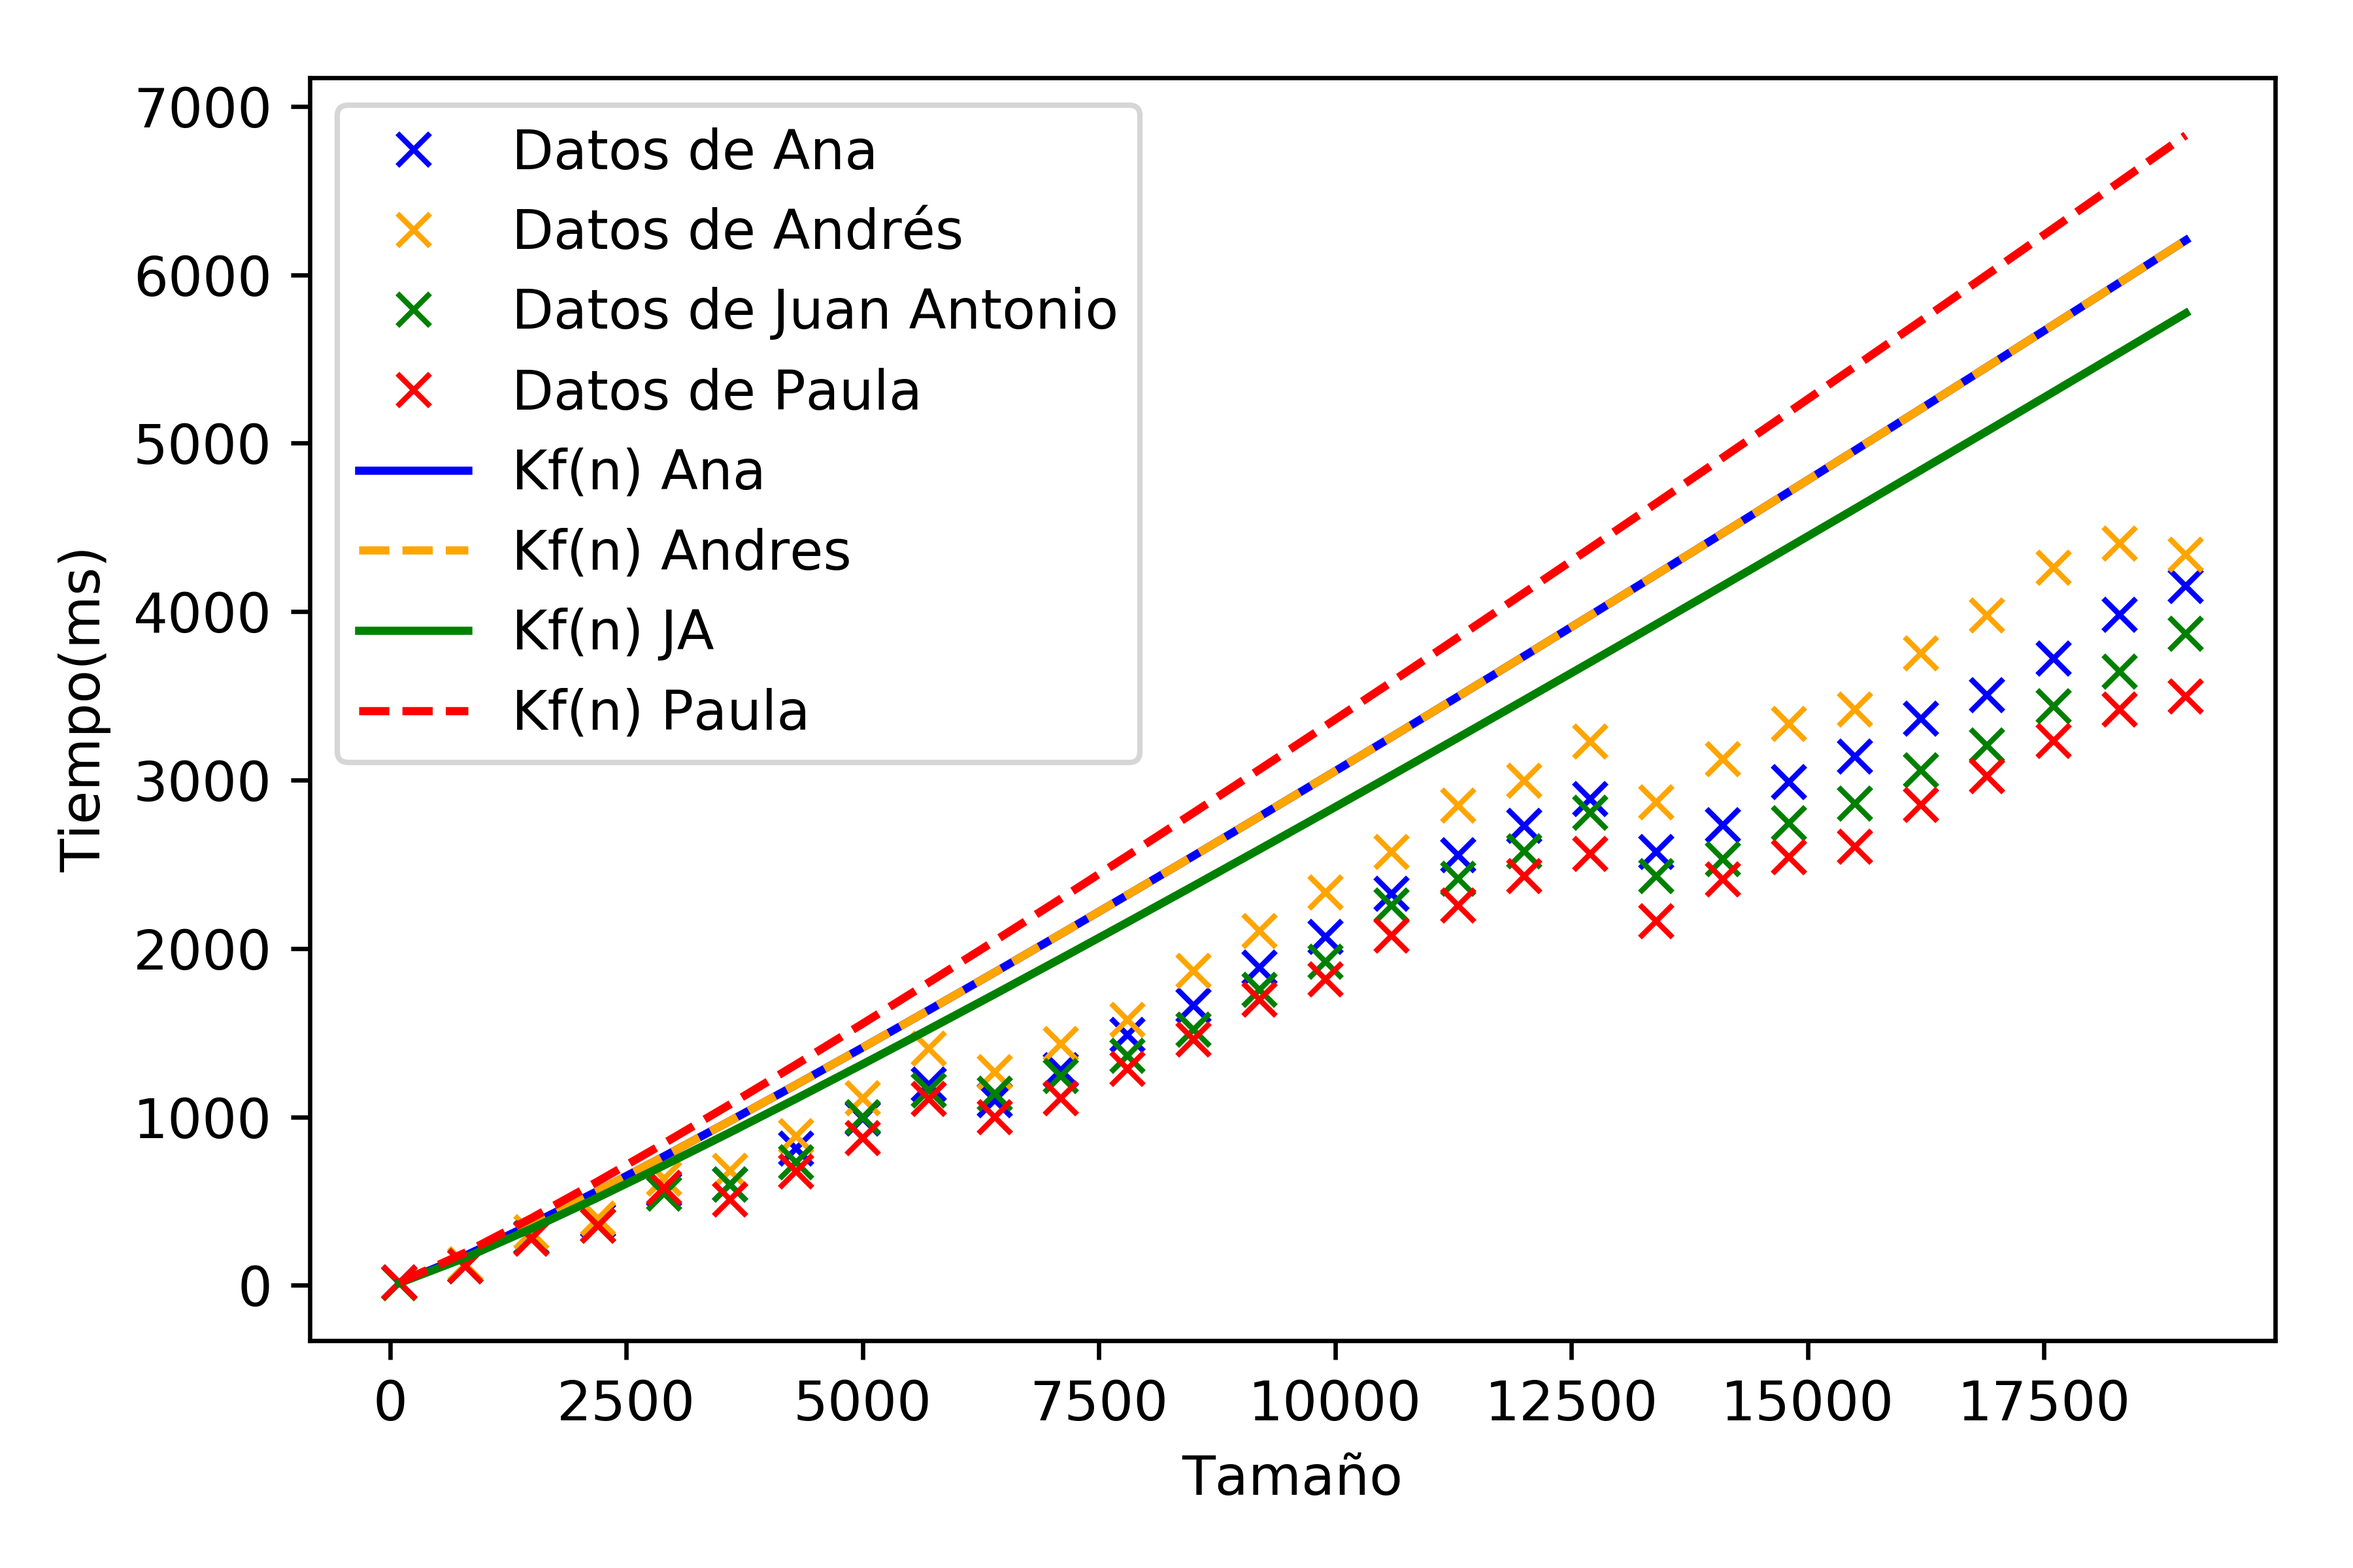
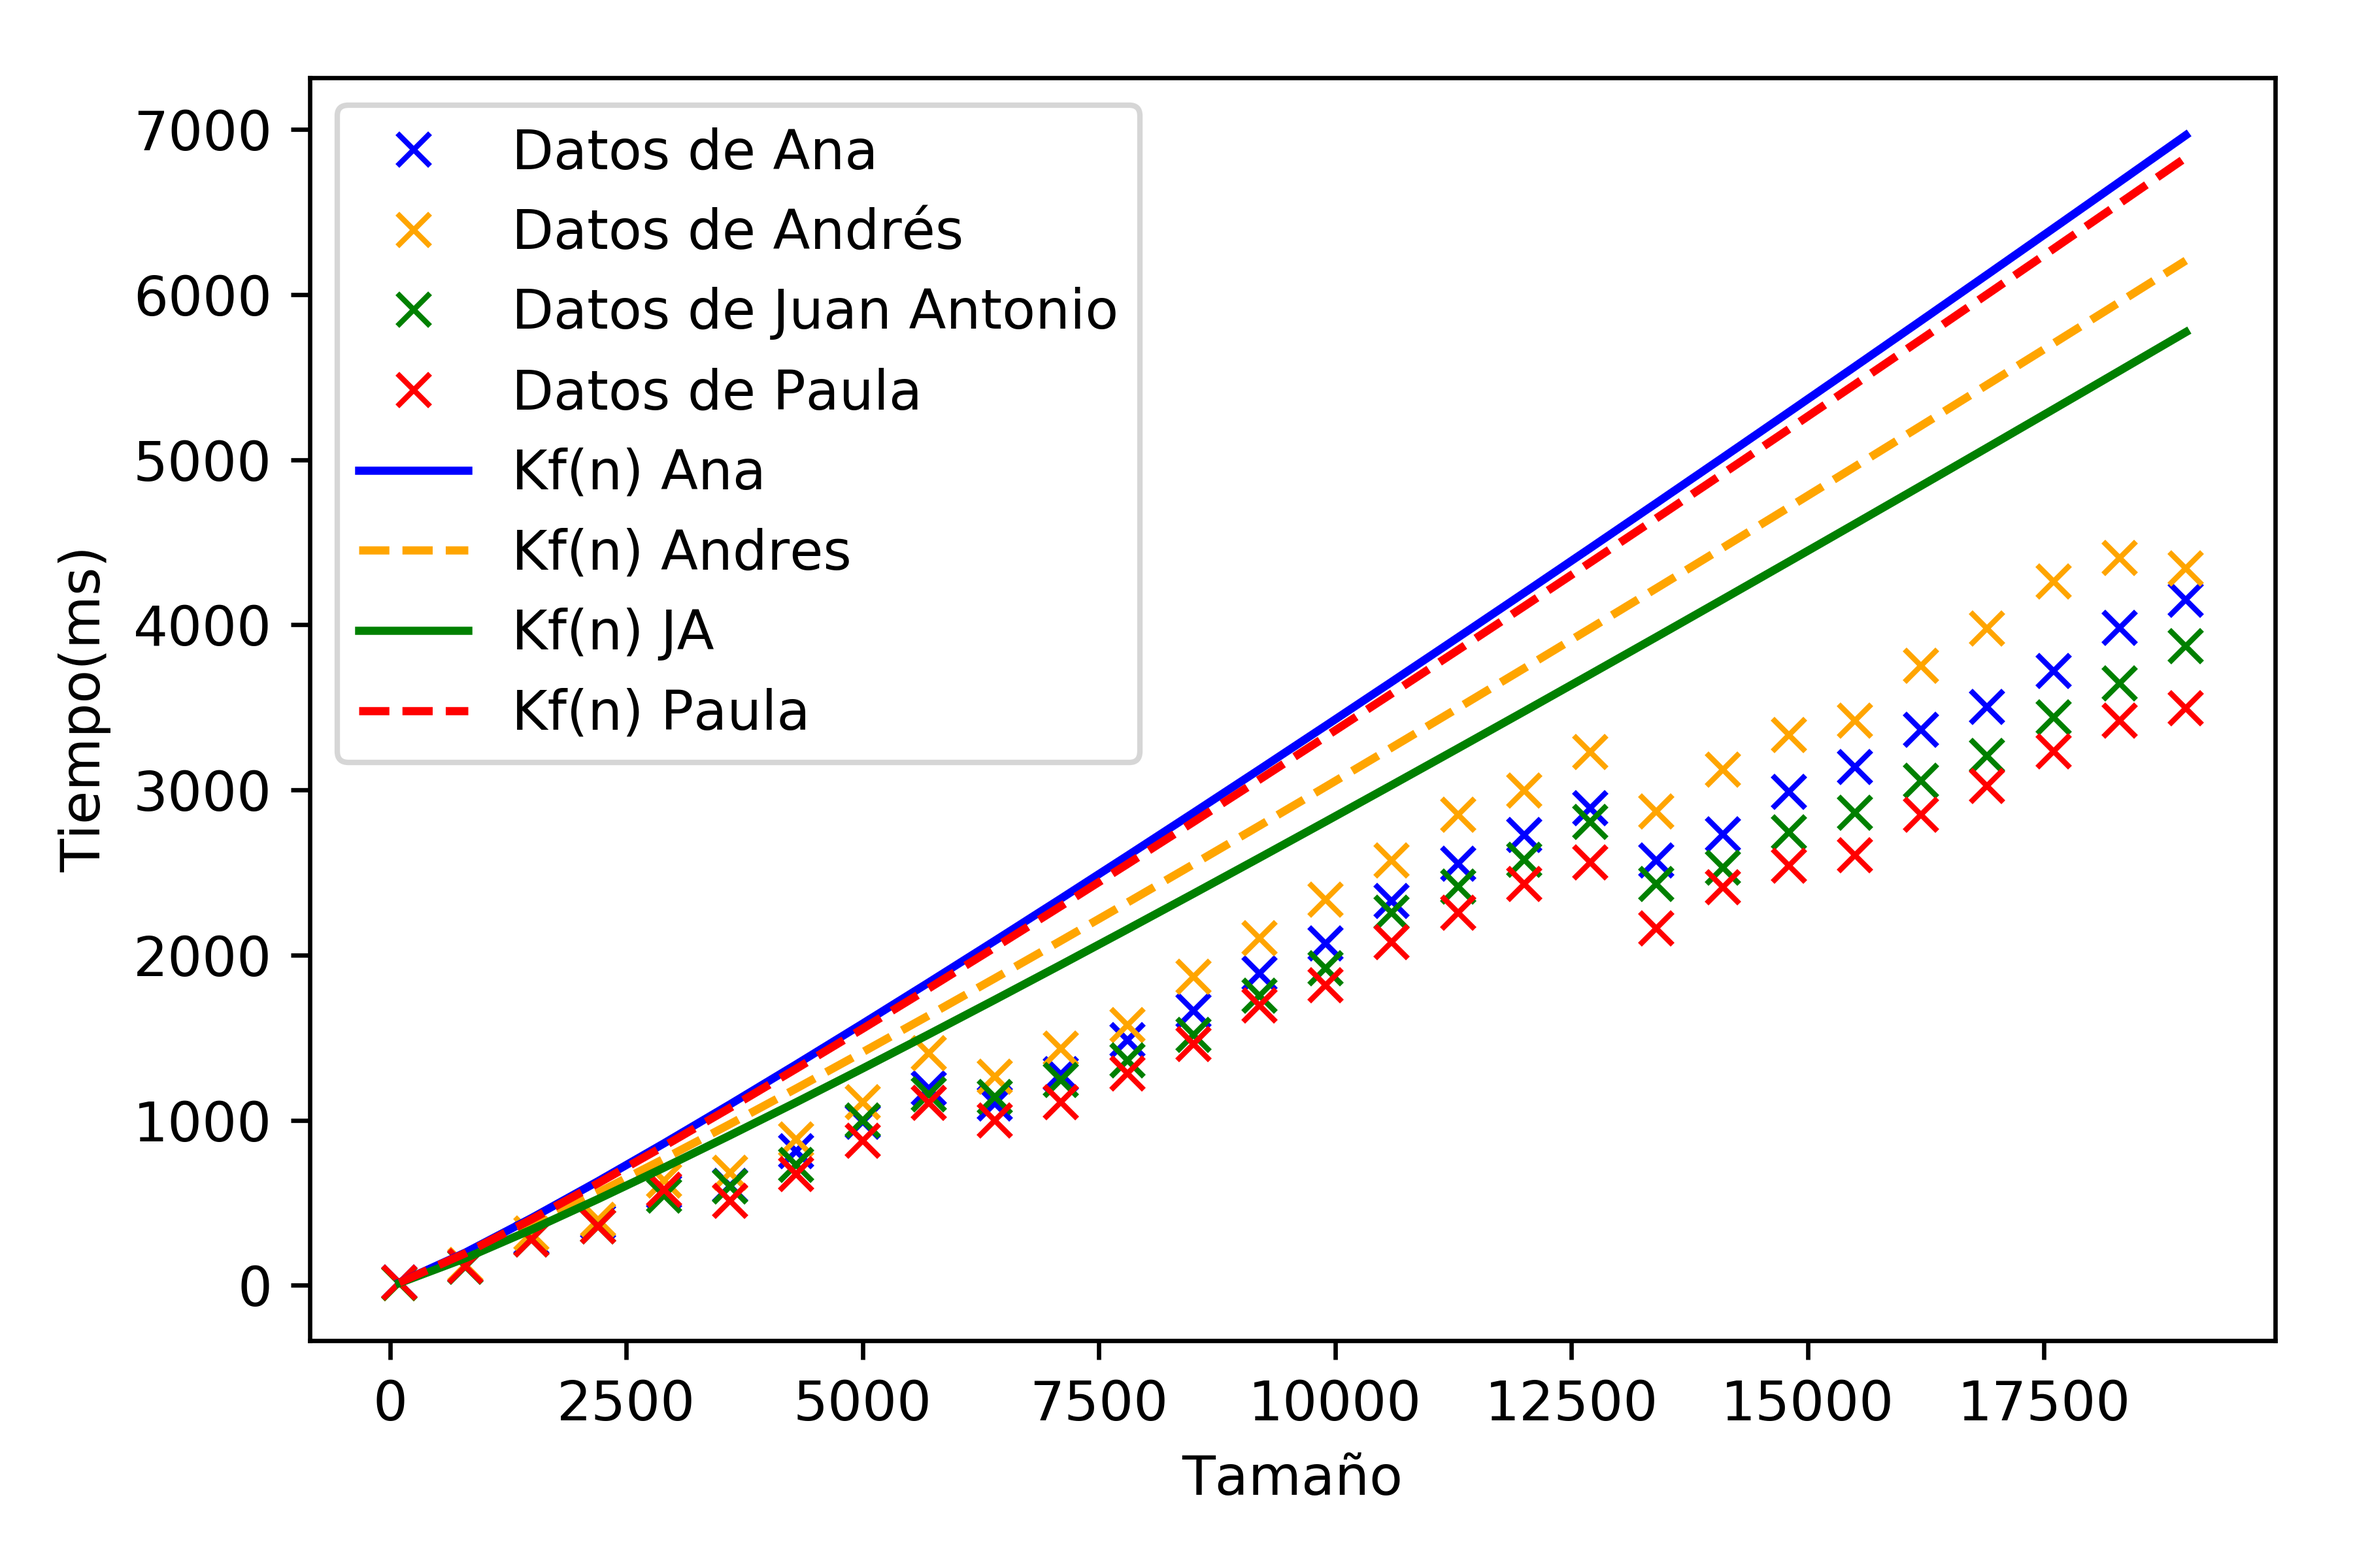
Cambio un detallito de las gráficas y añado toda la parte de mergesort y de las eficiencias híbridas de cada algoritmo

diff --git a/Documentación/Redaccion.md b/Documentación/Redaccion.md
@@ -4,7 +4,7 @@
 
 #### Introducción
 
-En este documento recogeremos los datos de nuestras partes individuales y los compararemos. Asímismo, haremos un análisis de los algoritmos de búsqueda binaria, ordenación por heapsort y ordenación por mergesort, estudiando los diferentes efectos que producen en una específica máquina.
+En este documento recogeremos los datos de nuestras partes individuales y los compararemos. Asimismo, haremos un análisis de los algoritmos de búsqueda binaria, ordenación por heapsort y ordenación por mergesort, estudiando los diferentes efectos que producen en una máquina específica.
 
 ## Especificaciones
 
@@ -62,7 +62,7 @@ $$T(n) = a \cdot \log_2(n) + 1$$
 
 Por tanto, concluimos que el algoritmo 4 es $O(\log_2(n))$
 
-### Comparación empírica e híbrida
+### Comparación empírica
 
 Para calcular las eficiencias empíricas, cada miembro del grupo ha ejecutado el siguiente script en su ordenador:
 
@@ -87,7 +87,20 @@ Tras los diferentes tests en nuestras respectivas máquinas, estos son los resul
 
 Cabe destacar que en este caso las medidas están en nanosegundos (ns).
 
-Comprobamos que la nube de puntos de cada uno se asemeja a una curva logarítmica y que el PC más rápido con este algoritmo es el de Andrés en, tardando unos 380ns como máximo.
+Comprobamos que la nube de puntos de cada uno se asemeja a una curva logarítmica y que el PC más rápido con este algoritmo es el de Andrés, tardando unos 380ns como máximo.
+
+### Comparación híbrida
+
+Hemos calculado la constante k para todos los conjuntos de datos empíricos de cada componente del grupo, obteniendo así los sigueintes resultados:
+
+| Persona      | K             |
+| ------------ | :------------ |
+| Ana          | 34.785220119  |
+| Andrés       | 28.9263485708 |
+| Juan Antonio | 35.1166541442 |
+| Paula        | 34.8506188855 |
+
+![Eficiencia híbrida buscarbinario](./graficas/buscarbinario_hibrida.png)
 
 ## Algoritmo 5 - Heapsort
 
@@ -141,7 +154,7 @@ En el peor de los casos, en la función reajustar, el número debe ser llevado d
 
 $$\sum_{N \geq i \geq 1}{\log_2(N/i)} + \sum_{N \geq i \geq 1}{\log_2(i)} = N \cdot \log_2(N) + O(N)$$
 
-### Comparación empírica e híbrida
+### Comparación empírica
 
 Al igual que el caso anterior, hemos ejecutado un script que nos generaba un fichero de datos que procesar. El script ejecutado es el siguiente:
 
@@ -162,6 +175,19 @@ Ejecutamos los scripts, procesamos los ficheros y obtenemos los siguientes valor
 ![Gráfica Heapsort](./graficas/heapsort_grupo_datos.png)
 
 Heapsort es de orden $O(n\log_2(n))$, y las gráficas se asemejan mucho a dicha curva. De nuevo el PC más rápido en general ha sido el de Andrés.
+
+### Comparación híbrida
+
+Hemos calculado la constante k para todos los conjuntos de datos empíricos de cada componente del grupo, obteniendo así los sigueintes resultados:
+
+| Persona      | K               |
+| ------------ | :-------------- |
+| Ana          | 0.0182624864036 |
+| Andrés       | 0.0141484097962 |
+| Juan Antonio | 0.0164563064296 |
+| Paula        | 0.0176604264123 |
+
+![Eficiencia híbrida hepaosrt](./graficas/heapsort_hibrida.png)
 
 ## Hanoi
 
@@ -224,16 +250,55 @@ Aquí mostramos las gráficas respectivas de los valores obtenidos para burbuja 
 
 ![Gráfica Burbuja - Regresion](./graficas/burbuja_grupo_regresion.png)
 
+### Comparación híbrida
+
+Hemos calculado la constante k para todos los conjuntos de datos empíricos de cada componente del grupo, obteniendo así los sigueintes resultados:
+
+| Persona      | K                |
+| ------------ | :--------------- |
+| Ana          | 0.00274223536473 |
+| Andrés       | 0.00533          |
+| Juan Antonio | 0.00272666666667 |
+| Paula        | 0.00274666666667 |
+
+## Mergesort
+
+### Teórico
+
+No lo estudiaremos ya que viene resuelto en los apuntes.
+
+### Empírico
+
+Hemos realizado para 28 valores distintos 15 iteraciones de las que obtendremos la media para obtener los resultados en media de las distintas ejecuciones. Además el vector está formado por números generados aleatoriamente.
+
+Así, hemos obtenido la siguiente gráfica:
+
+![Eficiencia empírica mergesort](./graficas/mergesort_grupo_datos.png) 
+
+### Comparación híbrida
+
+De nuevo, hemos obtenido la k para cada integrante del grupo:
+
+| Persona      | K               |
+| ------------ | :-------------- |
+| Ana          | 0.0257882362952 |
+| Andrés       | 0.0229786230024 |
+| Juan Antonio | 0.0213731296921 |
+| Paula        | 0.0252865196358 |
+
+![Eficiencia híbrida mergesort](./graficas/mergesort_hibrida.png)
 
 ## Comparación burbuja y mergesort
 
 ### Teórico
 
-No hemos estudiado `mergesort` a nivel teórico. Sin embargo, tras los respectivos análisis hechos, podemos ver que la función es de tipo $O(n\log2(n))$. En comparación con `burbuja`, claramente vemos que tiene que ser más eficiente `mergesort`, dado que $O(n\log_2(n)) \subset O(n^2)$
+No hemos estudiado `mergesort` a nivel teórico. Sin embargo, tras los respectivos análisis hechos, podemos ver que la función es de tipo $O(n\log2(n))$. En comparación con `burbuja`, claramente vemos que tiene que ser más eficiente `mergesort`, dado que $O(n\log_2(n)) \leq O(n^2)$
 
 ### Empírico
 
-### Híbrido
+Representando en una misma gráfica los resultados de las ejecuciones más rápidas tanto en burbuja como en mergesort se aprecia claramente que el algoritmo más eficiente es mergesort.
+
+![Comparacion burbuja y mergesort](./graficas/comparacion_algoritmos_ordenacion.png)
 
 ## Conclusiones
 
